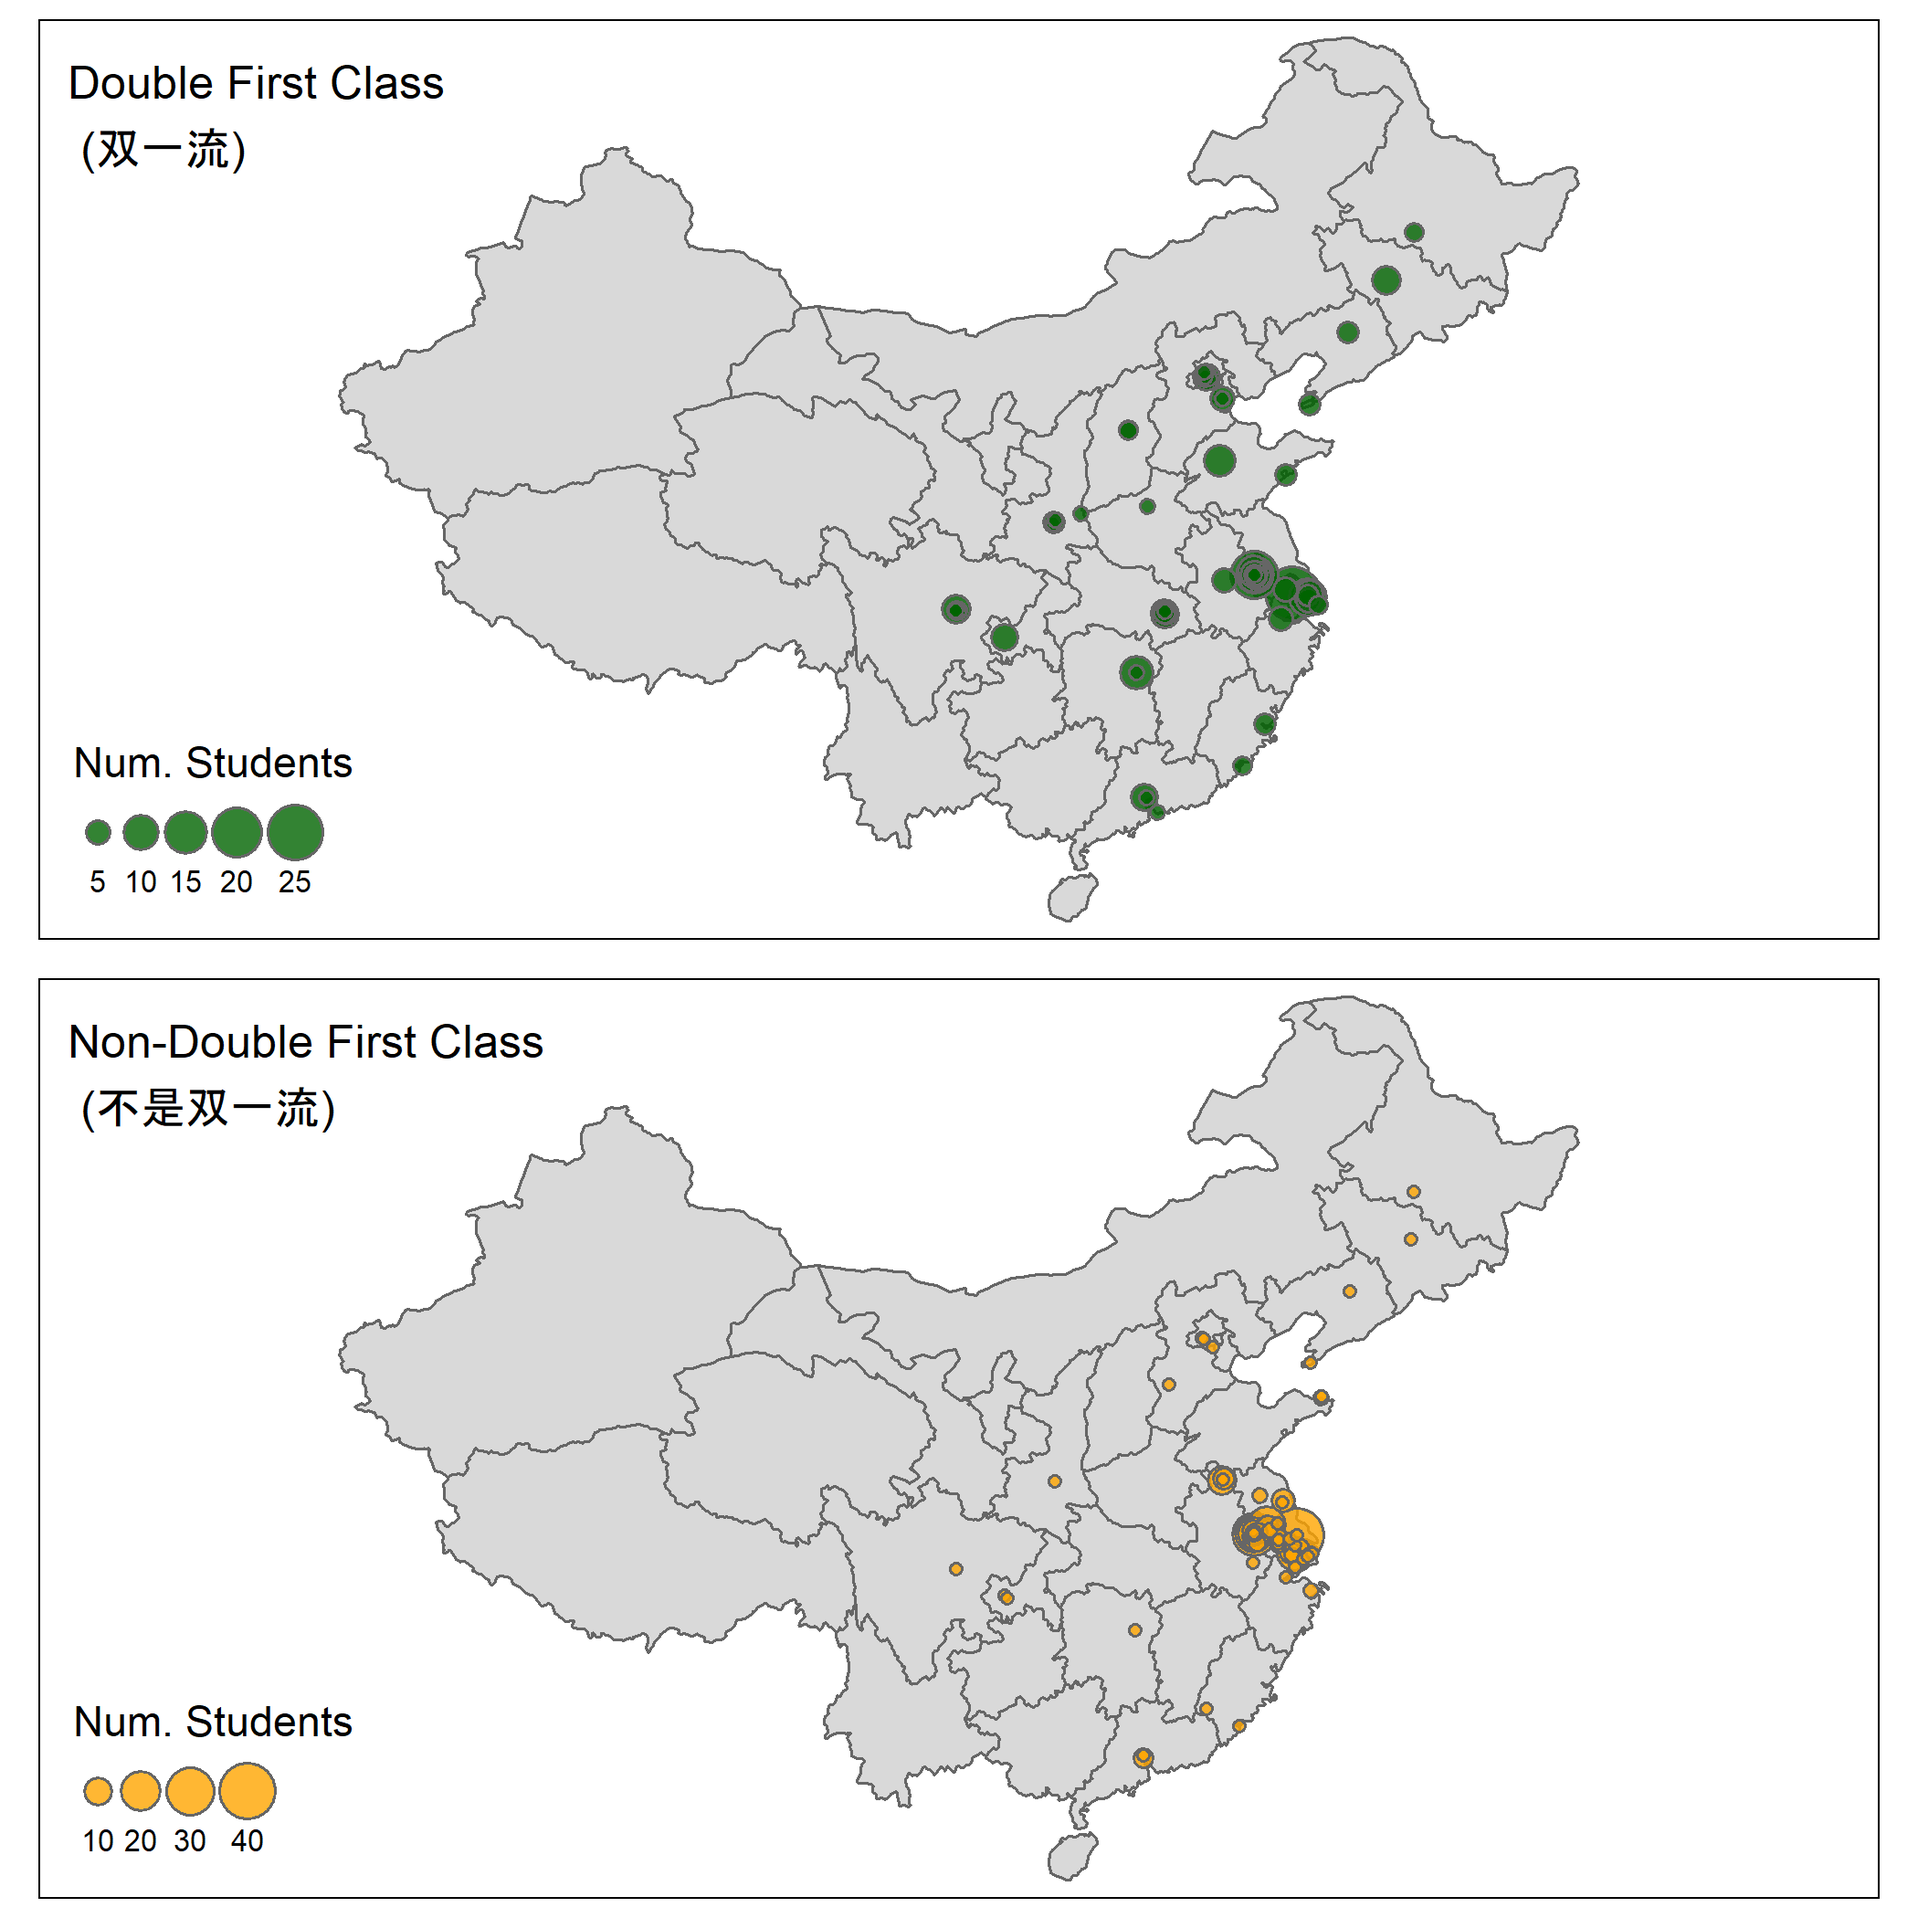
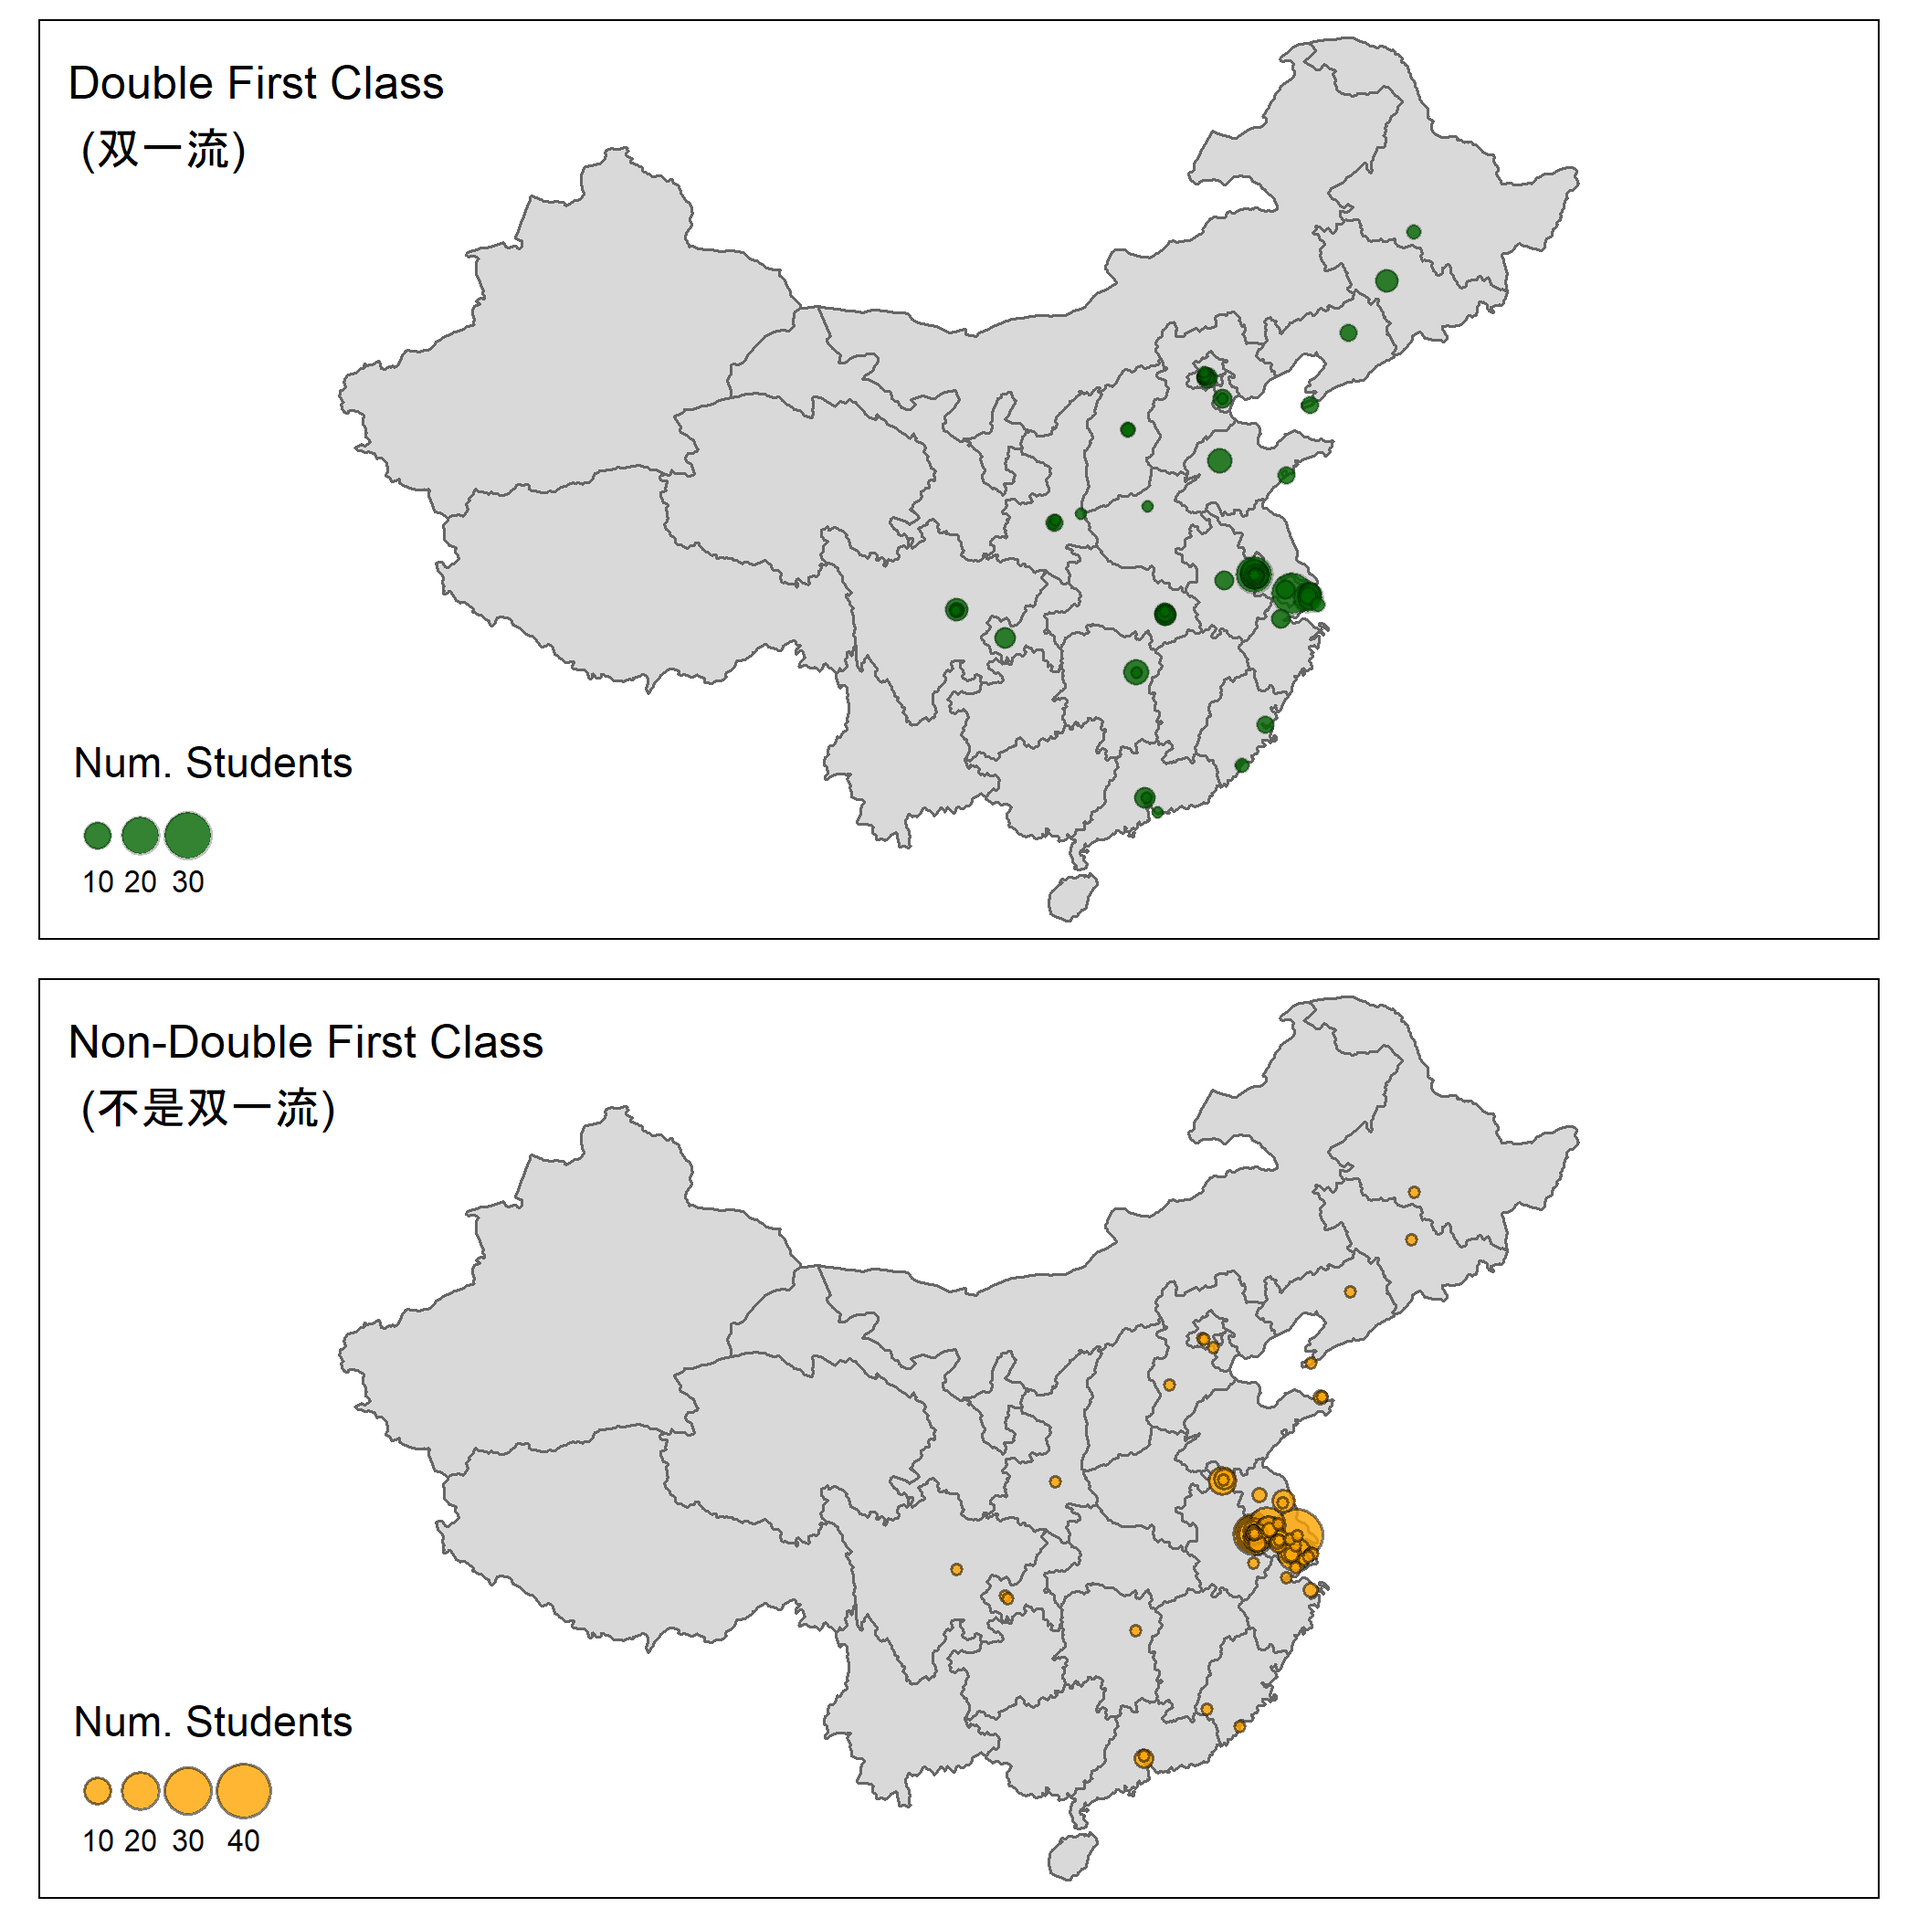
Updates to Nantong post

diff --git a/docs/_posts/2022-06-16-nantong-hs-colleges.md b/docs/_posts/2022-06-16-nantong-hs-colleges.md
@@ -15,7 +15,14 @@ The first map below simply displays bubbles corresponding to the geographical lo
 
 * **Most students choose to stay in their home province of Jiangsu, and/or home city of Nantong.** This makes sense especially in Jiangsu, since major cities such as Shanghai (上海) and Nanjing (南京) are home to many universities (including very prestigious ones).
 
-<img class="feature-img" src="{{ 'assets/nantong_plot_bubbles.png' | relative_url }}" />
+<figure>
+  <img class="feature-img" src="{{ 'assets/nantong_plot_bubbles.png' | relative_url }}" />
+
+  <figcaption>
+  <em>NOTE:</em>Bubbles for this plot and all following plots correspond to number of students to the nearest multiple of 10.
+  </figcaption>
+
+</figure>
 
 The previous map is slightly misleading due to the purple bubbles having high overlap within a city (eg in Beijing 北京 and Wuhan 武汉). A map that displays variation in the number of students attending colleges across the different provinces would solve this problem, as presented next.
 

diff --git a/docs/posts.md b/docs/posts.md
@@ -5,7 +5,7 @@ permalink: /posts/
 ---
 
 {%- if site.posts.size > 0 -%}
-  <h2 class="post-list-heading">{{ page.list_title | default: "Posts" }}</h2>
+  <h2 class="post-list-heading">{{ page.list_title | default: "Blog Posts" }}</h2>
   <ul class="post-list">
     {%- for post in site.posts -%}
     <li>
